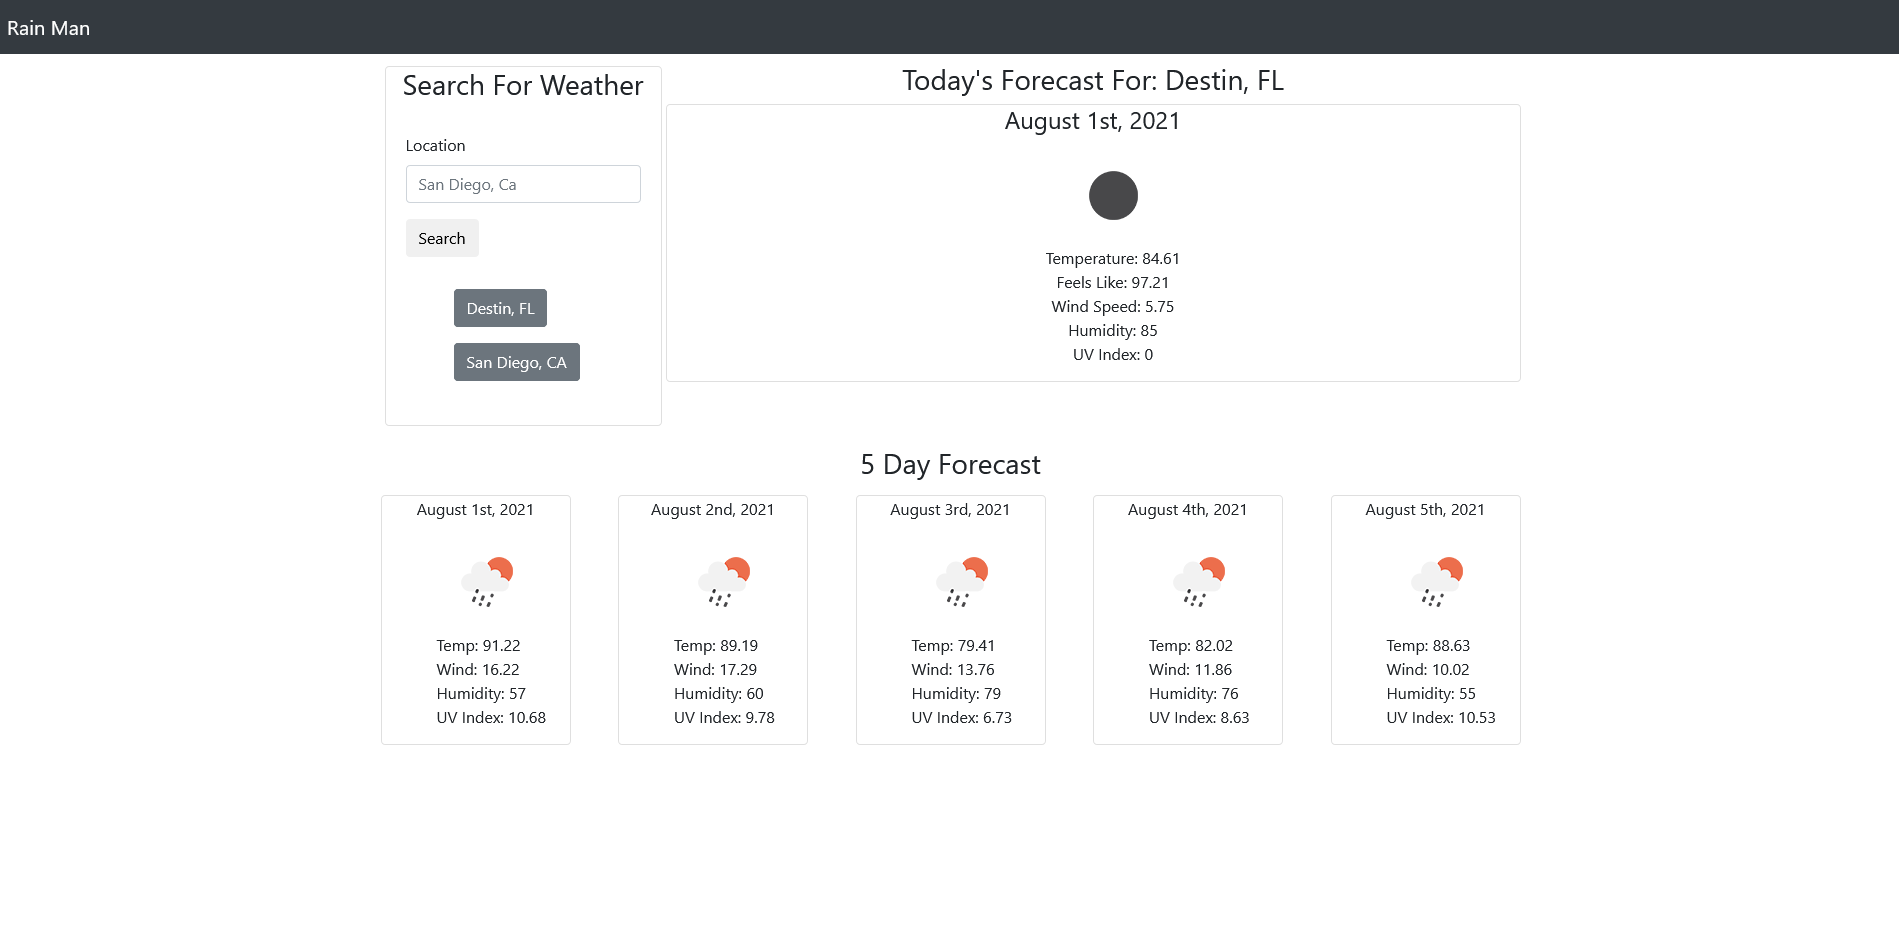
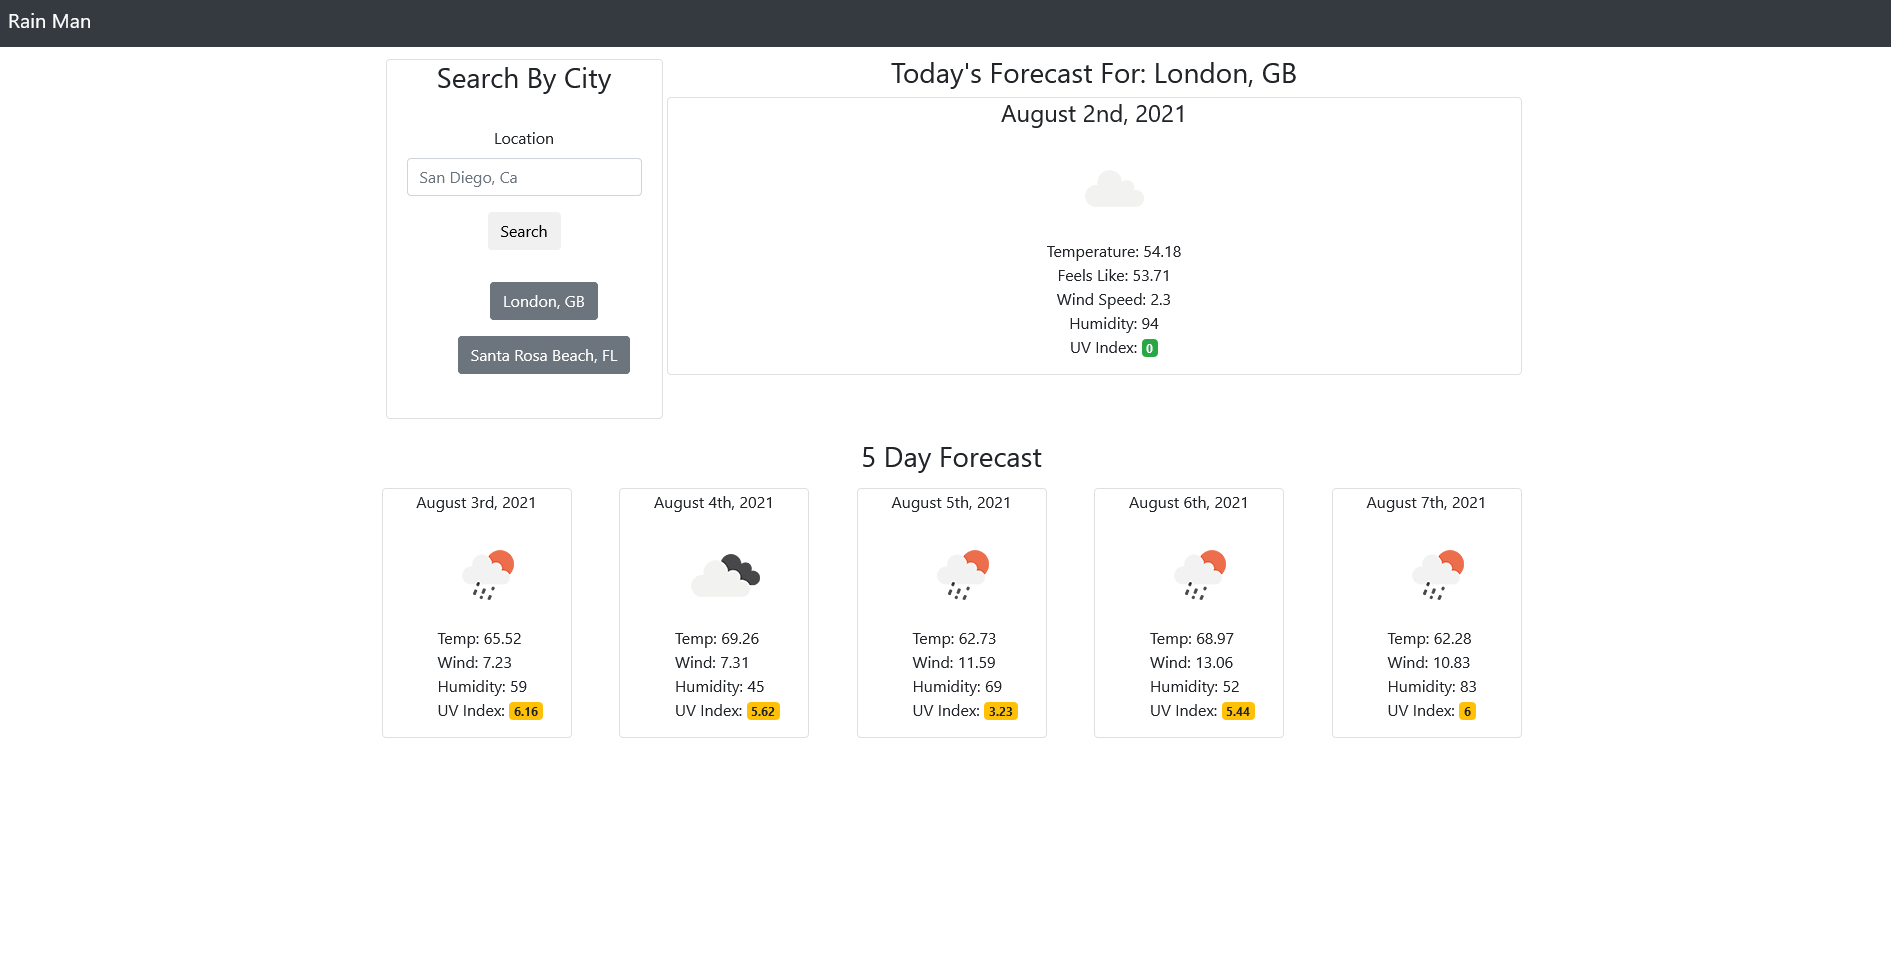
updated the uv index to show colors depending on how bad the uvi rating is

diff --git a/assets/js/script.js b/assets/js/script.js
@@ -10,11 +10,11 @@ var displayWeather = function(lat, long, area) {
 
                     // sets variabls to display the current and five day forecast days
                     var currentDate = moment.unix(data.current.dt).format("MMMM Do, YYYY");
-                    var dayOne = moment.unix(data.daily[0].dt).format("MMMM Do, YYYY");
-                    var dayTwo = moment.unix(data.daily[1].dt).format("MMMM Do, YYYY");
-                    var dayThree = moment.unix(data.daily[2].dt).format("MMMM Do, YYYY");
-                    var dayFour = moment.unix(data.daily[3].dt).format("MMMM Do, YYYY");
-                    var dayFive = moment.unix(data.daily[4].dt).format("MMMM Do, YYYY");
+                    var dayOne = moment.unix(data.daily[1].dt).format("MMMM Do, YYYY");
+                    var dayTwo = moment.unix(data.daily[2].dt).format("MMMM Do, YYYY");
+                    var dayThree = moment.unix(data.daily[3].dt).format("MMMM Do, YYYY");
+                    var dayFour = moment.unix(data.daily[4].dt).format("MMMM Do, YYYY");
+                    var dayFive = moment.unix(data.daily[5].dt).format("MMMM Do, YYYY");
 
                     // sets the text content that contains each date
                     $("#current-date").text(currentDate);
@@ -35,61 +35,115 @@ var displayWeather = function(lat, long, area) {
                     $("#current-wind").text(data.current.wind_speed);
                     $("#current-humidity").text(data.current.humidity);
                     $("#current-uvi").text(data.current.uvi);
+
+                    // checks the current uvi and sets a pill around the span
+                    if (data.current.uvi < 2) {
+                        $("#current-uvi").addClass("badge badge-success")
+                    } else if (data.current.uvi > 8 ) {
+                        $("#current-uvi").addClass("badge badge-danger")
+                    } else {
+                        $("#current-uvi").addClass("badge badge-warning")
+                    }
                     
                     // sets the image for day one
                     var dayOneImg = $("<img>");
-                    $(dayOneImg).attr("src", "http://openweathermap.org/img/wn/" + data.daily[0].weather[0].icon + "@2x.png")
+                    $(dayOneImg).attr("src", "http://openweathermap.org/img/wn/" + data.daily[1].weather[0].icon + "@2x.png")
                     $("#day-one-img").append(dayOneImg);
 
                     // sets the variables for day one
-                    $("#day-one-temp").text(data.daily[0].temp.day);
-                    $("#day-one-wind").text(data.daily[0].wind_speed);
-                    $("#day-one-humidity").text(data.daily[0].humidity);
-                    $("#day-one-uvi").text(data.daily[0].uvi);
+                    $("#day-one-temp").text(data.daily[1].temp.day);
+                    $("#day-one-wind").text(data.daily[1].wind_speed);
+                    $("#day-one-humidity").text(data.daily[1].humidity);
+                    $("#day-one-uvi").text(data.daily[1].uvi);
+
+                    // checks the uvi and sets a pill around the span
+                    if (data.daily[0].uvi < 2) {
+                        $("#day-one-uvi").addClass("badge badge-success")
+                    } else if (data.daily[0].uvi > 8 ) {
+                        $("#day-one-uvi").addClass("badge badge-danger")
+                    } else {
+                        $("#day-one-uvi").addClass("badge badge-warning")
+                    }
 
                     // sets the image for day two
                     var dayTwoImg = $("<img>")
-                    $(dayTwoImg).attr("src", "http://openweathermap.org/img/wn/" + data.daily[1].weather[0].icon + "@2x.png")
+                    $(dayTwoImg).attr("src", "http://openweathermap.org/img/wn/" + data.daily[2].weather[0].icon + "@2x.png")
                     $("#day-two-img").append(dayTwoImg);
 
                     // sets the variables for day two
-                    $("#day-two-temp").text(data.daily[1].temp.day);
-                    $("#day-two-wind").text(data.daily[1].wind_speed);
-                    $("#day-two-humidity").text(data.daily[1].humidity);
-                    $("#day-two-uvi").text(data.daily[1].uvi);
+                    $("#day-two-temp").text(data.daily[2].temp.day);
+                    $("#day-two-wind").text(data.daily[2].wind_speed);
+                    $("#day-two-humidity").text(data.daily[2].humidity);
+                    $("#day-two-uvi").text(data.daily[2].uvi);
+
+                    // checks the uvi and sets a pill around the span
+                    if (data.daily[2].uvi < 2) {
+                        $("#day-two-uvi").addClass("badge badge-success")
+                    } else if (data.daily[2].uvi > 8 ) {
+                        $("#day-two-uvi").addClass("badge badge-danger")
+                    } else {
+                        $("#day-two-uvi").addClass("badge badge-warning")
+                    }
 
                     // sets the image for day three
                     var dayThreeImg = $("<img>");
-                    $(dayThreeImg).attr("src", "http://openweathermap.org/img/wn/" + data.daily[2].weather[0].icon + "@2x.png")
+                    $(dayThreeImg).attr("src", "http://openweathermap.org/img/wn/" + data.daily[3].weather[0].icon + "@2x.png")
                     $("#day-three-img").append(dayThreeImg);
 
                     // sets the variables for day three
-                    $("#day-three-temp").text(data.daily[2].temp.day);
-                    $("#day-three-wind").text(data.daily[2].wind_speed);
-                    $("#day-three-humidity").text(data.daily[2].humidity);
-                    $("#day-three-uvi").text(data.daily[2].uvi);
+                    $("#day-three-temp").text(data.daily[3].temp.day);
+                    $("#day-three-wind").text(data.daily[3].wind_speed);
+                    $("#day-three-humidity").text(data.daily[3].humidity);
+                    $("#day-three-uvi").text(data.daily[3].uvi);
+
+                    // checks the uvi and sets a pill around the span
+                    if (data.daily[3].uvi < 2) {
+                        $("#day-three-uvi").addClass("badge badge-success")
+                    } else if (data.daily[3].uvi > 8 ) {
+                        $("#day-three-uvi").addClass("badge badge-danger")
+                    } else {
+                        $("#day-three-uvi").addClass("badge badge-warning")
+                    }
 
                     // sets the image for day four
                     var dayFourImg = $("<img>");
-                    $(dayFourImg).attr("src", "http://openweathermap.org/img/wn/" + data.daily[3].weather[0].icon + "@2x.png")
+                    $(dayFourImg).attr("src", "http://openweathermap.org/img/wn/" + data.daily[4].weather[0].icon + "@2x.png")
                     $("#day-four-img").append(dayFourImg);
 
                     // sets the variables for day four
-                    $("#day-four-temp").text(data.daily[3].temp.day);
-                    $("#day-four-wind").text(data.daily[3].wind_speed);
-                    $("#day-four-humidity").text(data.daily[3].humidity);
-                    $("#day-four-uvi").text(data.daily[3].uvi);
+                    $("#day-four-temp").text(data.daily[4].temp.day);
+                    $("#day-four-wind").text(data.daily[4].wind_speed);
+                    $("#day-four-humidity").text(data.daily[4].humidity);
+                    $("#day-four-uvi").text(data.daily[4].uvi);
+
+                    // checks the uvi and sets a pill around the span
+                    if (data.daily[4].uvi < 2) {
+                        $("#day-four-uvi").addClass("badge badge-success")
+                    } else if (data.daily[4].uvi > 8 ) {
+                        $("#day-four-uvi").addClass("badge badge-danger")
+                    } else {
+                        $("#day-four-uvi").addClass("badge badge-warning")
+                    }
 
                     // sets the image for day five
                     var dayFiveImg = $("<img>");
-                    dayFiveImg.attr("src", "http://openweathermap.org/img/wn/" + data.daily[4].weather[0].icon + "@2x.png")
+                    dayFiveImg.attr("src", "http://openweathermap.org/img/wn/" + data.daily[5].weather[0].icon + "@2x.png")
                     $("#day-five-img").append(dayFiveImg);
 
                     // sets the variables for day five
-                    $("#day-five-temp").text(data.daily[4].temp.day);
-                    $("#day-five-wind").text(data.daily[4].wind_speed);
-                    $("#day-five-humidity").text(data.daily[4].humidity);
-                    $("#day-five-uvi").text(data.daily[4].uvi); 
+                    $("#day-five-temp").text(data.daily[5].temp.day);
+                    $("#day-five-wind").text(data.daily[5].wind_speed);
+                    $("#day-five-humidity").text(data.daily[5].humidity);
+                    $("#day-five-uvi").text(data.daily[5].uvi); 
+
+                    // checks the uvi and sets a pill around the span
+                    if (data.daily[5].uvi < 2) {
+                        $("#day-five-uvi").addClass("badge badge-success")
+                    } else if (data.daily[5].uvi > 8 ) {
+                        $("#day-five-uvi").addClass("badge badge-danger")
+                    } else {
+                        $("#day-five-uvi").addClass("badge badge-warning")
+                    }
                 })
             }
         })
@@ -159,6 +213,14 @@ var resetData = function() {
      $("#day-five-wind").text("");
      $("#day-five-humidity").text("");
      $("#day-five-uvi").text(""); 
+
+    // resets the badges
+    $("#current-uvi").removeClass();
+    $("#day-one-uvi").removeClass();
+    $("#day-two-uvi").removeClass();
+    $("#day-three-uvi").removeClass();
+    $("#day-four-uvi").removeClass();
+    $("#day-five-uvi").removeClass();
 }
 
 $("#search-form").on("submit", function(event) {

diff --git a/index.html b/index.html
@@ -17,9 +17,9 @@
 
     <main class="container">
        <div class="row">
-            <div class="col-12 col-md-3 mt-2 p-1">
+            <div class="col-12 col-lg-3 mt-2 p-1 text-center">
                 <div class="card">
-                    <h3 class="card-title text-center">Search For Weather</h3>
+                    <h3 class="card-title">Search By City</h3>
                     <div class="card-body">
                         <form id="search-form">
                             <div class="form-group">
@@ -29,7 +29,7 @@
                             <button type="submit" class="btn">Search</button>
                         </form>
                         <div class="text-left">
-                            <ul id="previous-search" class="mt-4">
+                            <ul id="previous-search" class="mt-4 text-center">
                                 
                             </ul>
                         </div>
@@ -37,7 +37,7 @@
                 </div>
             </div>
 
-            <div class="col-12 col-md-9 mt-2">
+            <div class="col-12 col-lg-9 mt-2">
                 <div>
                     <h3 class="text-center">Today's Forecast For: <span id="current-city"></span></h3>
                     <div class="row justify-content-between">
@@ -58,7 +58,7 @@
         </div>
         
         <h3 class="text-center my-3">5 Day Forecast</h3>
-        <div class="row justify-content-between mt-3">
+        <div class="row justify-content-between mt-3 text-center text-lg-left">
             <div class="card col-12 col-lg-2">
                 <p class="card-title mx-auto" id="day-one"></p>
                 <img>
@@ -119,6 +119,7 @@
 
     <script src="https://cdnjs.cloudflare.com/ajax/libs/jquery/3.6.0/jquery.min.js" integrity="sha512-894YE6QWD5I59HgZOGReFYm4dnWc1Qt5NtvYSaNcOP+u1T9qYdvdihz0PPSiiqn/+/3e7Jo4EaG7TubfWGUrMQ==" crossorigin="anonymous" referrerpolicy="no-referrer"></script>
     <script src="https://code.jquery.com/jquery-3.2.1.slim.min.js" integrity="sha384-KJ3o2DKtIkvYIK3UENzmM7KCkRr/rE9/Qpg6aAZGJwFDMVNA/GpGFF93hXpG5KkN" crossorigin="anonymous"></script>
+    <script src="https://cdnjs.cloudflare.com/ajax/libs/jqueryui/1.12.1/jquery-ui.min.js" integrity="sha512-uto9mlQzrs59VwILcLiRYeLKPPbS/bT71da/OEBYEwcdNUk8jYIy+D176RYoop1Da+f9mvkYrmj5MCLZWEtQuA==" crossorigin="anonymous" referrerpolicy="no-referrer"></script>
     <script src="https://cdnjs.cloudflare.com/ajax/libs/popper.js/1.12.9/umd/popper.min.js" integrity="sha384-ApNbgh9B+Y1QKtv3Rn7W3mgPxhU9K/ScQsAP7hUibX39j7fakFPskvXusvfa0b4Q" crossorigin="anonymous"></script>
     <script src="https://maxcdn.bootstrapcdn.com/bootstrap/4.0.0/js/bootstrap.min.js" integrity="sha384-JZR6Spejh4U02d8jOt6vLEHfe/JQGiRRSQQxSfFWpi1MquVdAyjUar5+76PVCmYl" crossorigin="anonymous"></script>
     <script src="https://cdnjs.cloudflare.com/ajax/libs/moment.js/2.29.1/moment.min.js" integrity="sha512-qTXRIMyZIFb8iQcfjXWCO8+M5Tbc38Qi5WzdPOYZHIlZpzBHG3L3by84BBBOiRGiEb7KKtAOAs5qYdUiZiQNNQ==" crossorigin="anonymous" referrerpolicy="no-referrer"></script>

diff --git a/README.md b/README.md
@@ -12,7 +12,7 @@ A dynamic weather app that allows for the user to search by city for their local
 
 ## Preview
 
-[Alt text](assets/images/screenshot.png "screenshot of rain man")
+![Alt text](assets/images/screenshot.png "screenshot of rain man")
 
 ## Languages/FrameWorks
 
